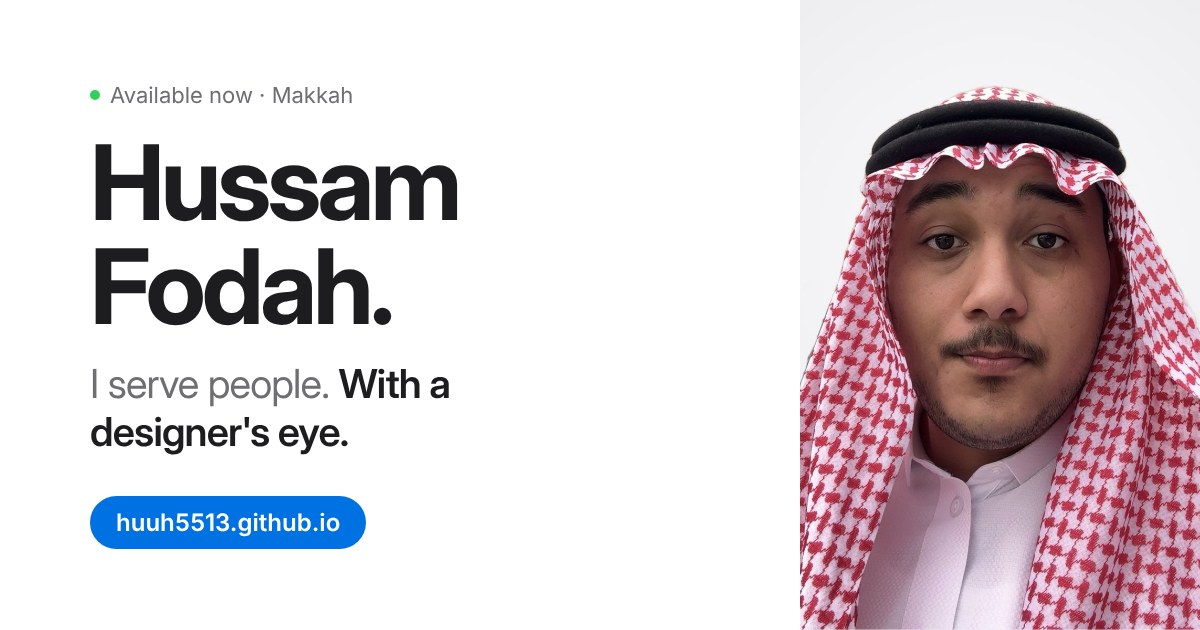
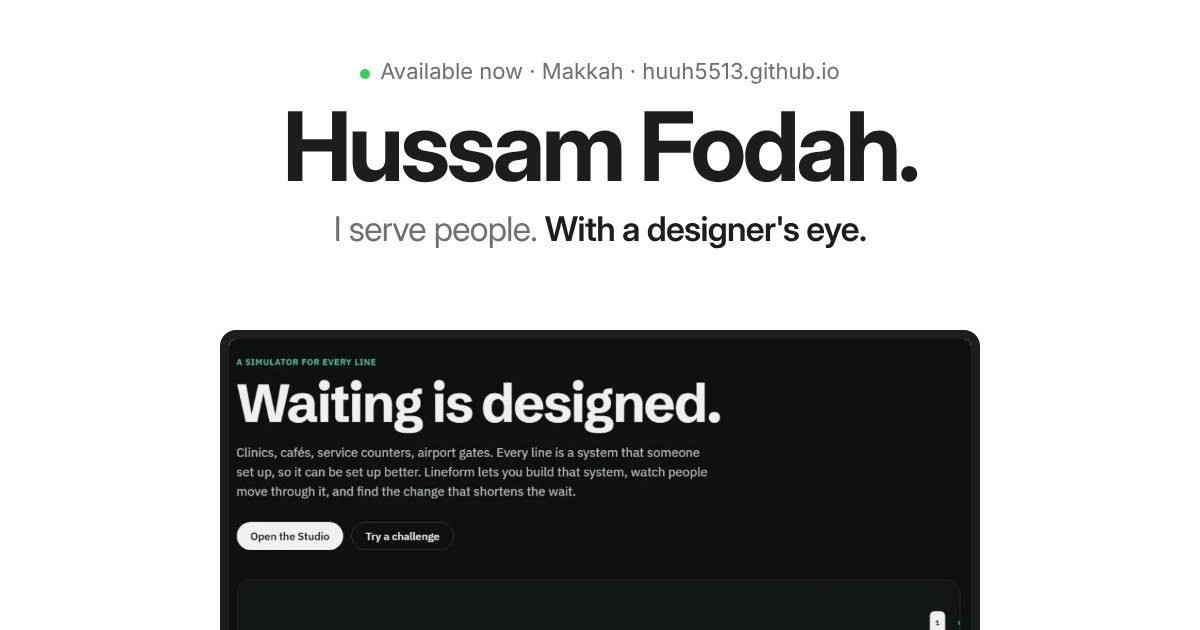
Remove portrait, Lineform laptop hero, new OG

diff --git a/index.html b/index.html
@@ -30,9 +30,9 @@
 <link rel="preconnect" href="https://fonts.googleapis.com">
 <link rel="preconnect" href="https://fonts.gstatic.com" crossorigin>
 <link rel="stylesheet" href="https://fonts.googleapis.com/css2?family=IBM+Plex+Sans+Arabic:wght@300;400;500;600;700&family=Inter:wght@400;500;600;700&display=swap">
-<link rel="preload" as="image" href="portrait.webp" type="image/webp">
+<link rel="preload" as="image" href="lf_hero.webp" type="image/webp">
 <script type="application/ld+json">
-{"@context":"https://schema.org","@type":"Person","name":"Hussam Hussein Abdullah Fodah","alternateName":["Hussam Fodah","حسام حسين عبدالله فودة","حسام فودة"],"url":"https://huuh5513.github.io/","image":"https://huuh5513.github.io/portrait.jpg","jobTitle":"Patient Services & Operations","nationality":"Saudi","email":"mailto:Huuh5513@gmail.com","telephone":"+966541231624","address":{"@type":"PostalAddress","addressLocality":"Makkah","addressCountry":"SA"},"alumniOf":{"@type":"CollegeOrUniversity","name":"Umm Al-Qura University"},"knowsLanguage":["ar","en"],"sameAs":["https://www.linkedin.com/in/hussam-fodah/"]}
+{"@context":"https://schema.org","@type":"Person","name":"Hussam Hussein Abdullah Fodah","alternateName":["Hussam Fodah","حسام حسين عبدالله فودة","حسام فودة"],"url":"https://huuh5513.github.io/","jobTitle":"Patient Services & Operations","nationality":"Saudi","email":"mailto:Huuh5513@gmail.com","telephone":"+966541231624","address":{"@type":"PostalAddress","addressLocality":"Makkah","addressCountry":"SA"},"alumniOf":{"@type":"CollegeOrUniversity","name":"Umm Al-Qura University"},"knowsLanguage":["ar","en"],"sameAs":["https://www.linkedin.com/in/hussam-fodah/"]}
 </script>
 <script>
 (function(){var d=document.documentElement,l=null,t=null;d.classList.add('js');
@@ -41,7 +41,7 @@ if(l==='en'){d.lang='en';d.dir='ltr';d.dataset.lang='en';}
 if(t==='dark'||t==='light')d.dataset.theme=t;})();
 </script>
 <style>
-/* Layout: Apple-style single column. Thin translucent nav → centered hero with the portrait as the "product shot" → three pillars that tell one story → work tiles (one wide, two half) → numbers → experience spec list → certificates → contact. Alternating white / light-grey bands, one blue for actions. */
+/* Layout: Apple-style single column. Thin translucent nav → centered hero with a laptop showing Lineform as the "product shot" → three pillars that tell one story → work tiles (one wide, two half) → numbers → experience spec list → certificates → contact. Alternating white / light-grey bands, one blue for actions. */
 :root{
   --bg:#ffffff; --alt:#f5f5f7; --tile:#ffffff; --ink:#1d1d1f; --ink-2:#6e6e73; --ink-3:#86868b; --line:#d2d2d7;
   --link:#0066cc; --btn:#0071e3; --btn-h:#0077ed; --btn-ink:#ffffff;
@@ -131,6 +131,15 @@ section{scroll-margin-top:56px}
 .shot{position:relative;width:min(400px,78vw);margin:clamp(40px,6vw,64px) auto 0;border-radius:40px 40px 0 0;overflow:hidden;background:#ececf0;aspect-ratio:4/5}
 .shot img{width:100%;height:100%;object-fit:cover}
 
+.device{width:min(820px,100%);margin:clamp(44px,6vw,72px) auto 0}
+.device .screen{border-radius:18px 18px 0 0;border:10px solid #1d1d1f;border-bottom-width:14px;overflow:hidden;background:#111;direction:ltr;box-shadow:0 30px 60px -30px rgba(0,0,0,.35)}
+.device .screen img{width:100%;aspect-ratio:1062/565;object-fit:cover}
+.device .base{height:14px;margin:0 -6%;background:linear-gradient(#d6d6db,#b9b9bf);border-radius:0 0 14px 14px;position:relative}
+.device .base::before{content:"";position:absolute;left:50%;top:0;width:16%;height:6px;transform:translateX(-50%);background:#a8a8ae;border-radius:0 0 8px 8px}
+:root[data-theme="dark"] .device .base{background:linear-gradient(#3a3a3c,#2c2c2e)}
+@media (prefers-color-scheme:dark){:root:not([data-theme="light"]) .device .base{background:linear-gradient(#3a3a3c,#2c2c2e)}}
+.device .cap{margin-top:22px;font-size:15px;color:var(--ink-3)}
+.device .cap .more{font-size:15px}
 /* pillars */
 .pillars{display:grid;grid-template-columns:repeat(3,minmax(0,1fr));gap:20px}
 .pillar{background:var(--tile);border-radius:28px;padding:34px 30px 32px;display:flex;flex-direction:column;gap:6px;min-width:0}
@@ -336,12 +345,11 @@ dialog[open]{display:flex;align-items:flex-end;justify-content:center}
         <a class="more" href="#work"><span data-l="ar">شاهد الأعمال</span><span data-l="en">See my work</span></a>
         <a class="more" href="https://huuh5513.github.io/Hussam_Fodah_CV.pdf" target="_blank" rel="noopener"><span data-l="ar">السيرة الذاتية PDF</span><span data-l="en">CV (PDF)</span></a>
       </div>
-      <div class="shot rv">
-        <picture>
-          <source srcset="portrait-sm.webp 400w, portrait.webp 960w" sizes="(max-width:520px) 78vw, 400px" type="image/webp">
-          <img src="portrait.jpg" width="960" height="1200" alt="" data-alt-ar="صورة حسام فودة" data-alt-en="Portrait of Hussam Fodah" fetchpriority="high">
-        </picture>
-      </div>
+      <div class="device rv">
+        <div class="screen"><img src="lf_hero.webp" width="1062" height="565" alt="" data-alt-ar="لقطة من Lineform، محاكي الطوابير الذي بنيته" data-alt-en="Screenshot of Lineform, the queue simulator I built" fetchpriority="high"></div>
+        <div class="base" aria-hidden="true"></div>
+        <p class="cap"><span data-l="ar">أحدث عمل: </span><span data-l="en">Latest work: </span><button class="more" type="button" data-case="lineform">Lineform</button></p>
+      </div></div>
     </div>
   </section>
 
